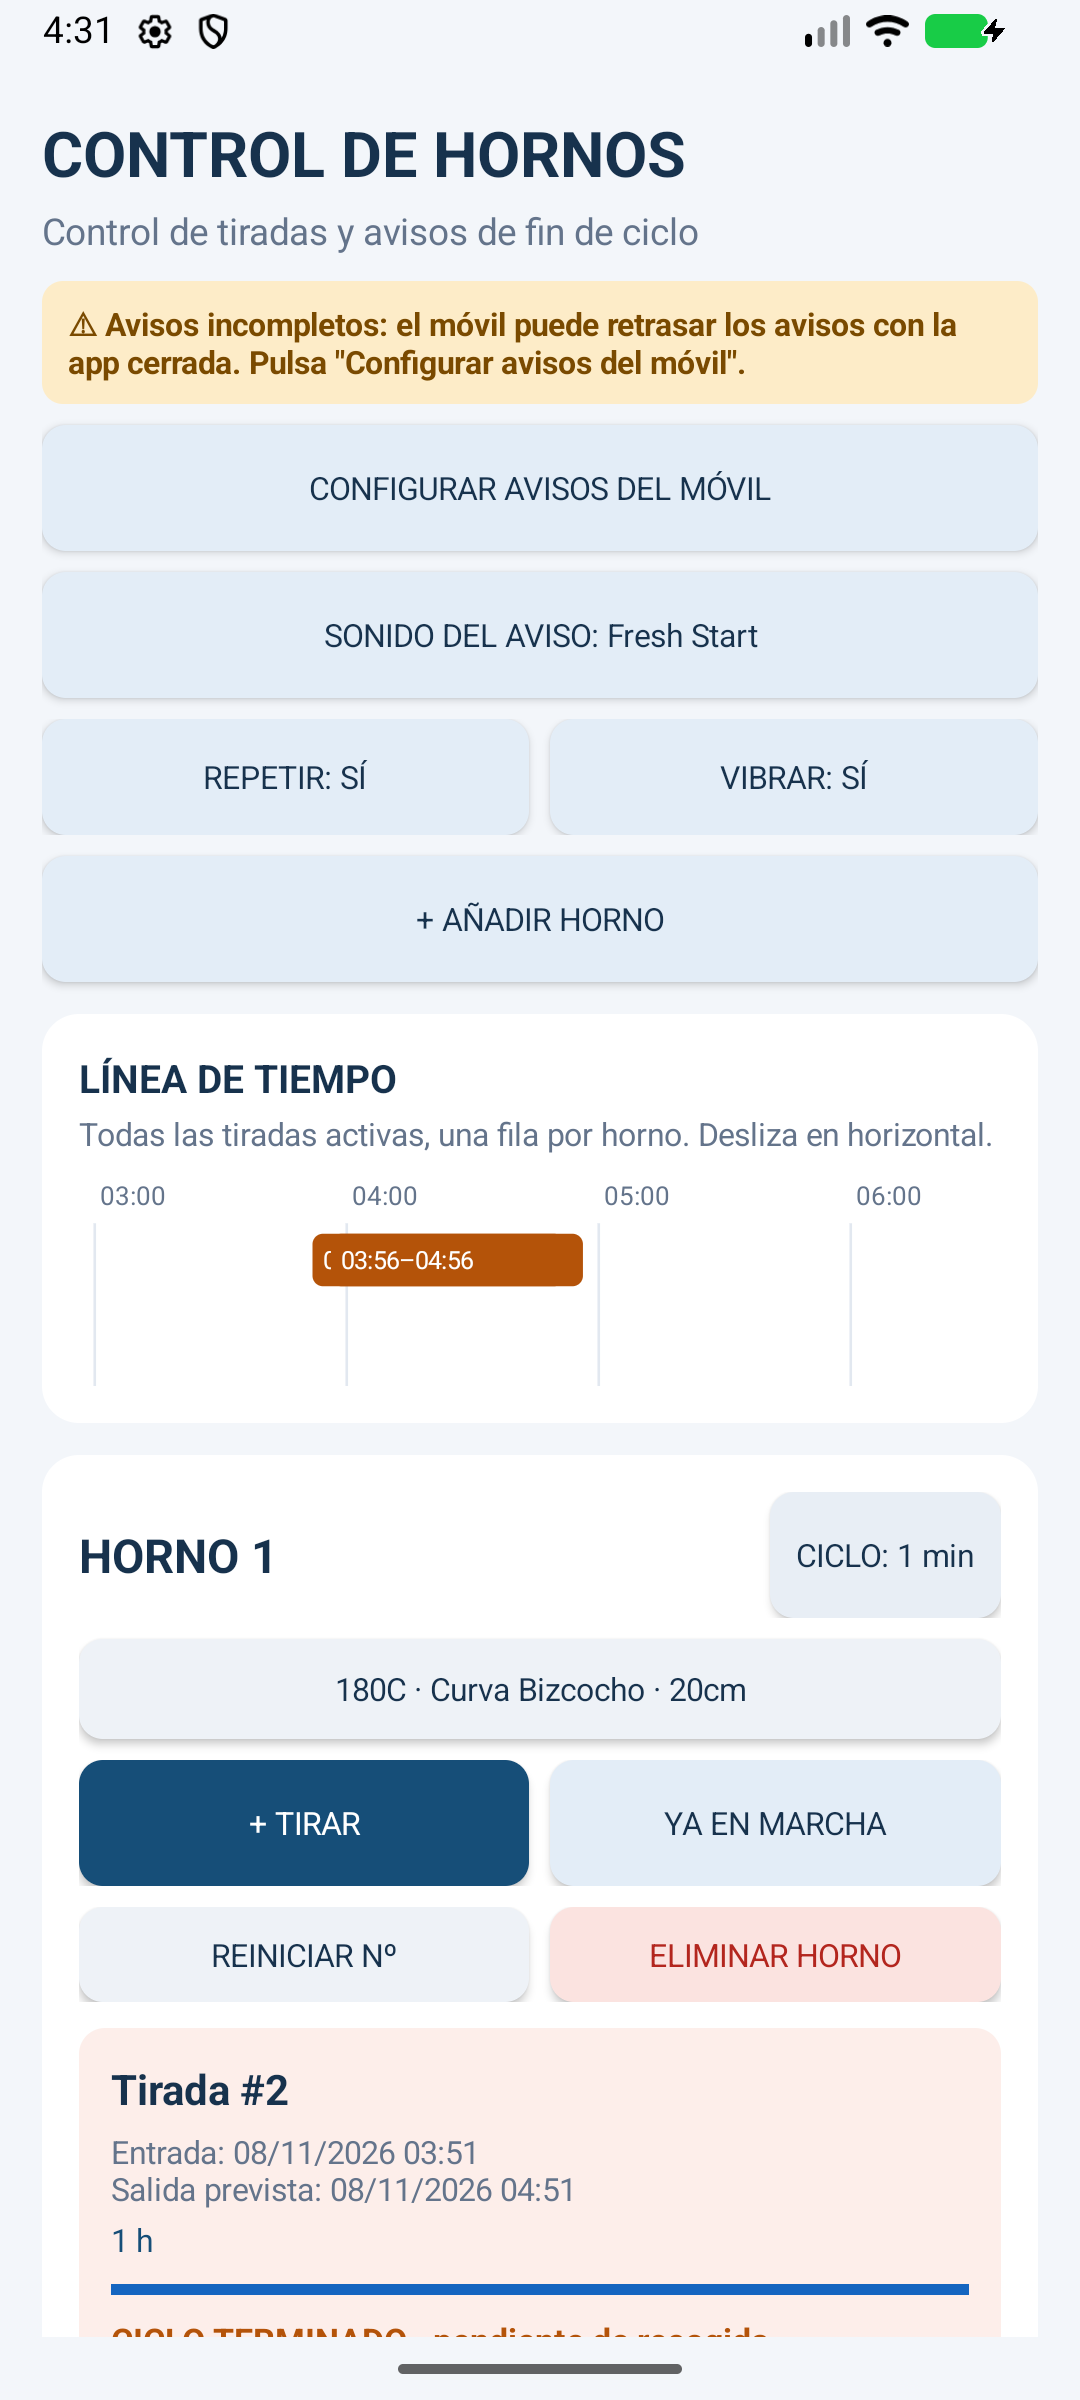
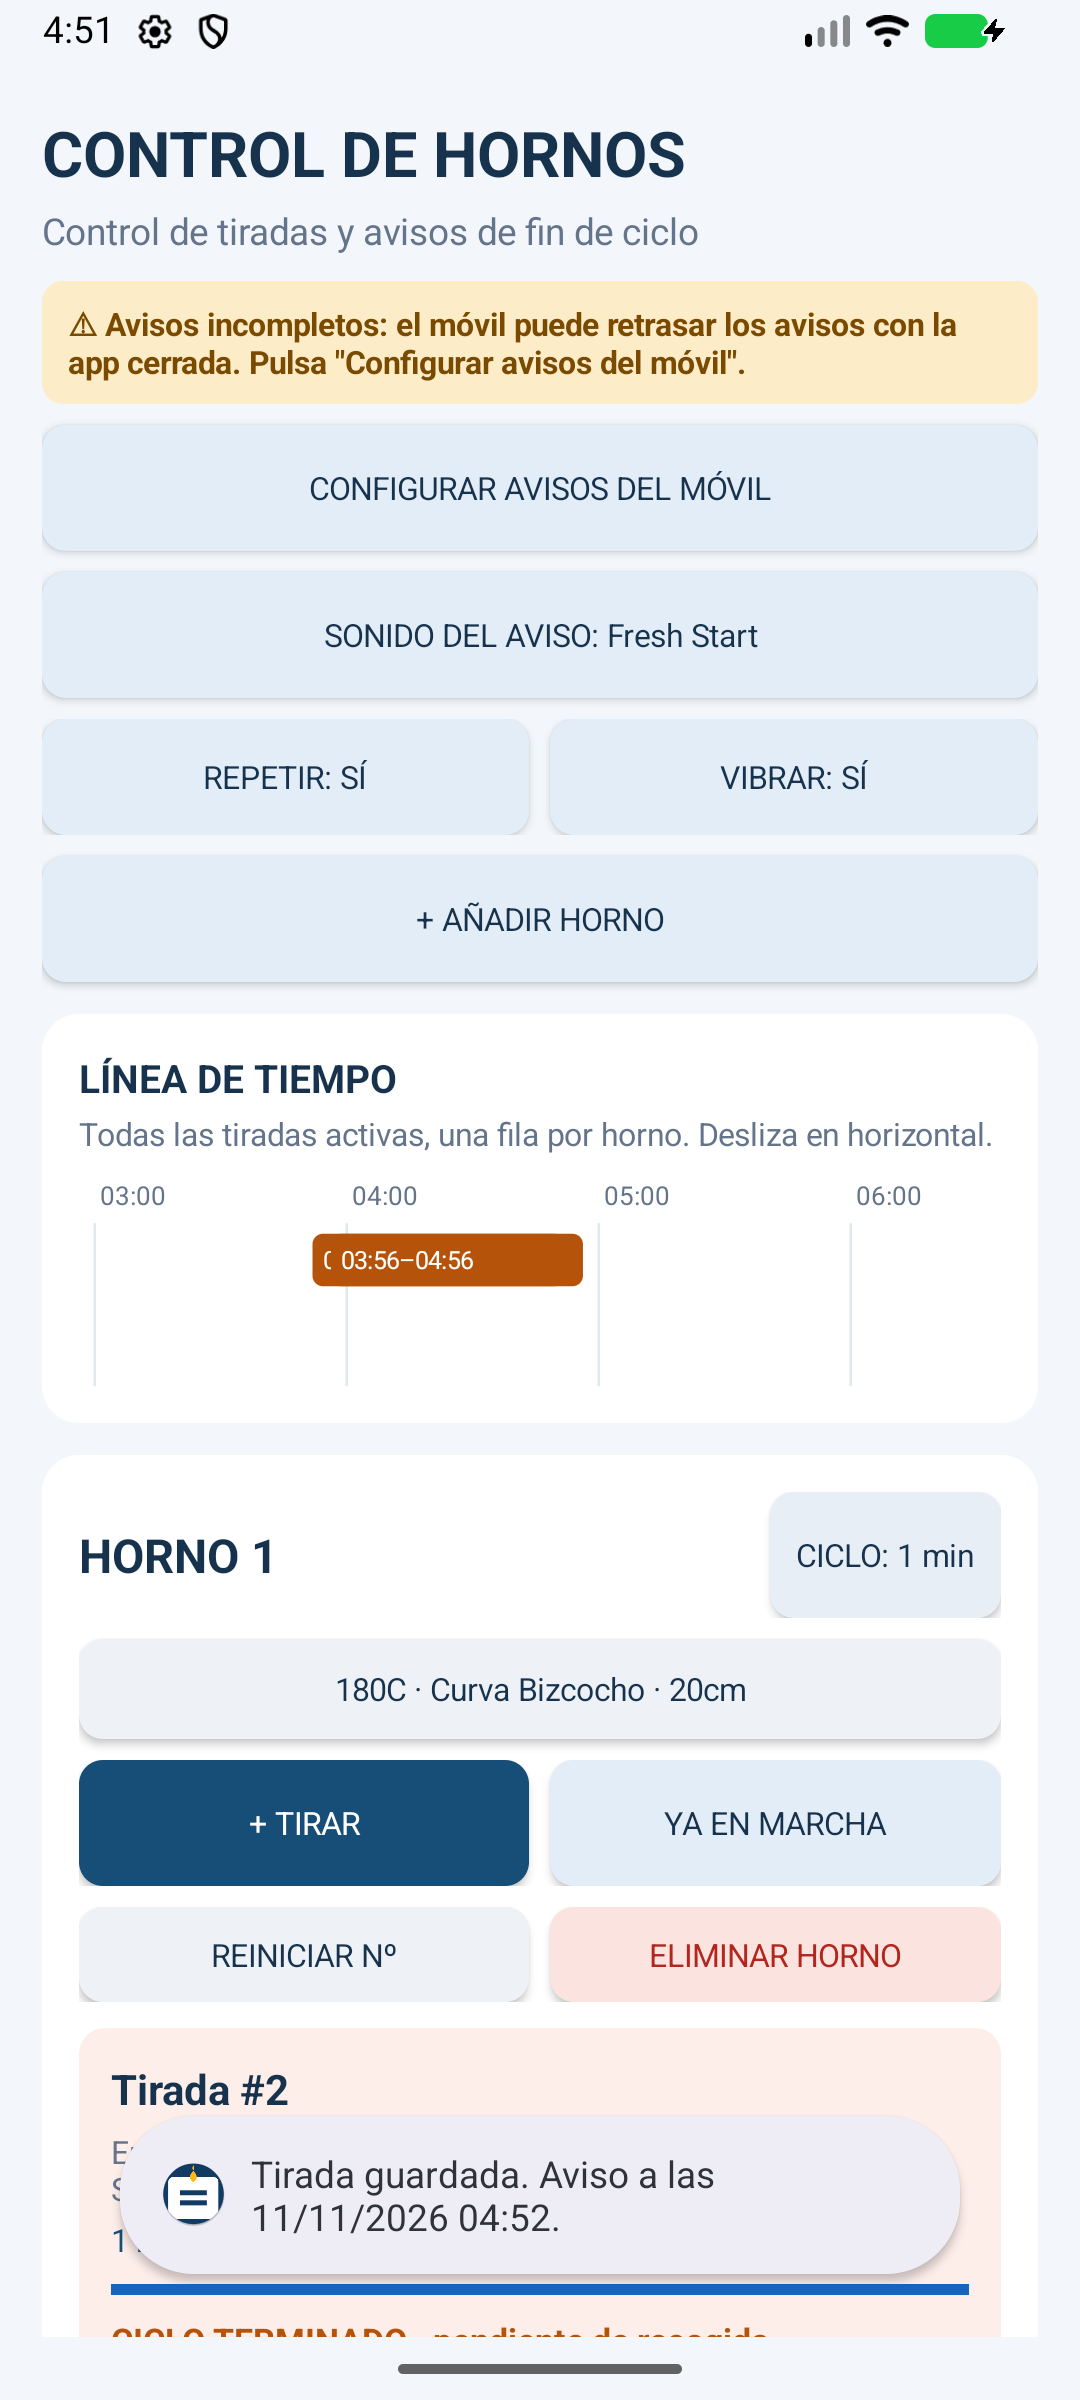
v3.3: el aviso insiste como maximo 4 minutos

Changed region(s): [[0.1222, 0.875, 0.8556, 0.9688]]

diff --git a/v3/app/src/main/java/es/controlhornos/app/RingService.java b/v3/app/src/main/java/es/controlhornos/app/RingService.java
@@ -10,11 +10,11 @@ import android.util.Log;
 
 /**
  * Insiste con el aviso hasta que se atiende: suena una vez y vuelve a sonar un minuto después,
- * así hasta una hora. Se para antes si se abre la app o se descarta la notificación.
+ * así hasta cuatro minutos. Se para antes si se abre la app o se descarta la notificación.
  */
 public class RingService extends Service {
     private static final long GAP_MS=60000L;       // espera entre un aviso y el siguiente
-    private static final long MAX_MS=60*60000L;    // deja de insistir tras una hora
+    private static final long MAX_MS=4*60000L;     // deja de insistir a los 4 minutos
     private MediaPlayer player;
     private Vibrator vibrator;
     private final Handler handler=new Handler(Looper.getMainLooper());

diff --git a/v3/app/src/main/java/es/controlhornos/app/MainActivity.java b/v3/app/src/main/java/es/controlhornos/app/MainActivity.java
@@ -108,7 +108,7 @@ public class MainActivity extends Activity {
             boolean on=!AlarmReceiver.repeat(this);
             getSharedPreferences("ajustes",0).edit().putString("repetir",on?"1":"0").apply();
             repeatButton.setText(repeatLabel());
-            toast(on?"El aviso sonará y volverá a sonar un minuto después hasta que lo atiendas (máximo 1 hora)."
+            toast(on?"El aviso sonará y volverá a sonar un minuto después hasta que lo atiendas (máximo 4 minutos)."
                    :"El sonido sonará una sola vez.");
         });
         vibrateButton=button(vibrateLabel(),0xffe3edf7,dark);
